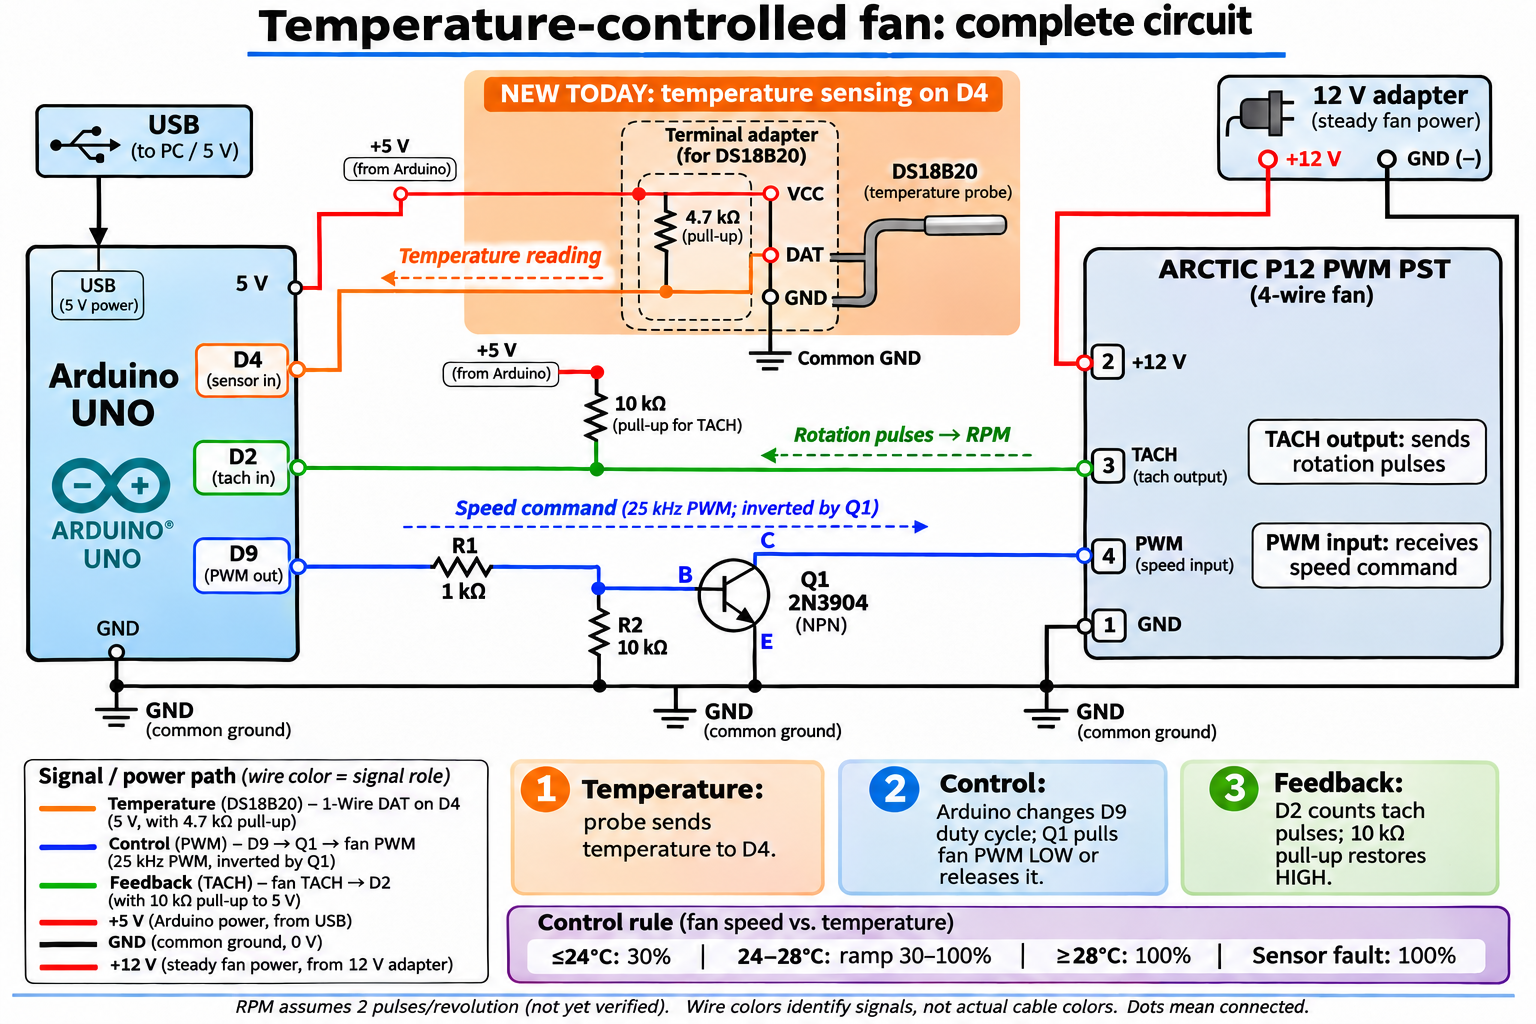
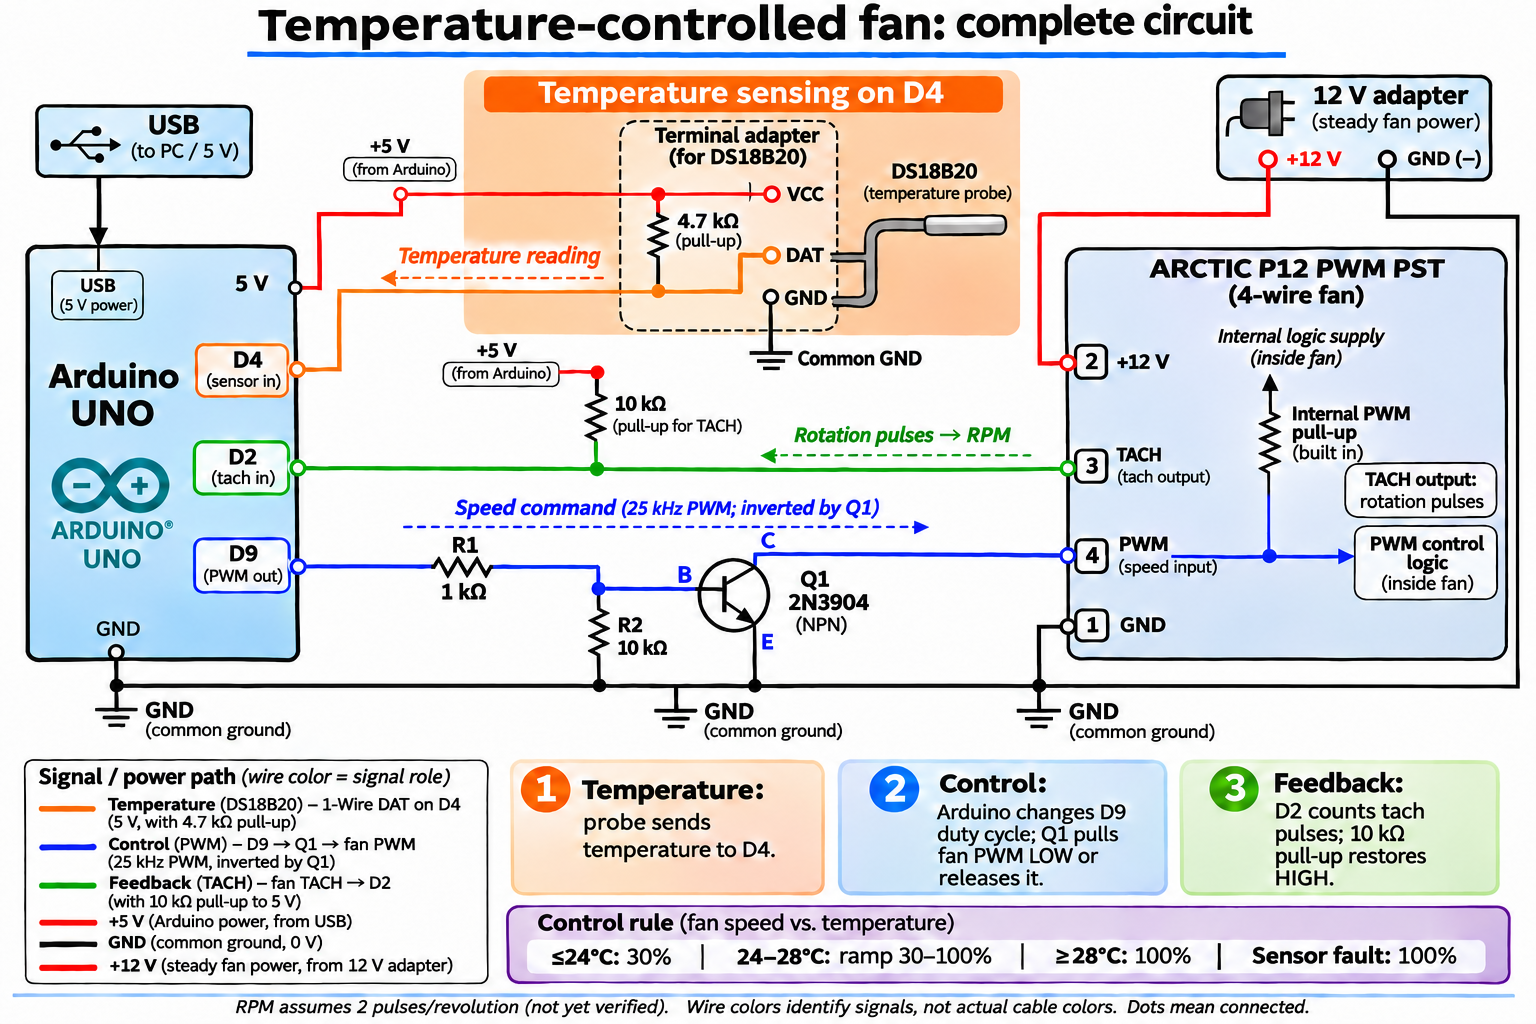
Correct sensor VCC junction and show fan internal PWM pull-up

diff --git a/Docs/temperature-fan-wiring.md b/Docs/temperature-fan-wiring.md
@@ -6,6 +6,8 @@ Tested on 24 November 2026 with an ELEGOO Uno R3, DS18B20 probe and ARCTIC P12 P
 
 The diagram is an AI-generated explanatory schematic, checked against the connections below. It is not a breadboard placement guide or a photograph of test evidence. Colors identify signal roles rather than actual cable colors. All ground symbols represent the same shared ground. The 25 kHz label is calculated from firmware settings, not measured with an oscilloscope.
 
+The 27 November diagram correction makes the sensor VCC junction explicit and shows the fan's built-in PWM pull-up. The sensor's 4.7 kOhm resistor connects VCC/5 V to DAT, with GND remaining separate. The internal fan pull-up connects its PWM input to its internal logic supply; its resistance and supply voltage are not specified here. It is not an additional external resistor or a connection from PWM to the 12 V motor supply. This correction changes the illustration, not the tested circuit.
+
 | Connection | Destination / purpose |
 |---|---|
 | Arduino USB | Powers the Uno and its 5 V sensor circuitry |
